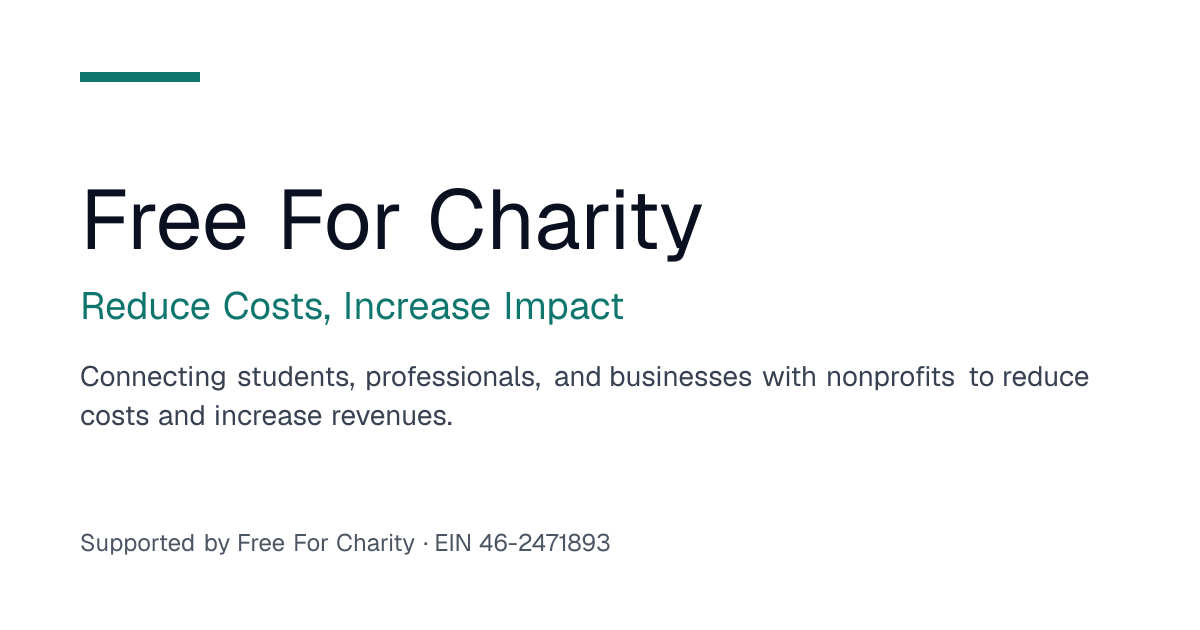
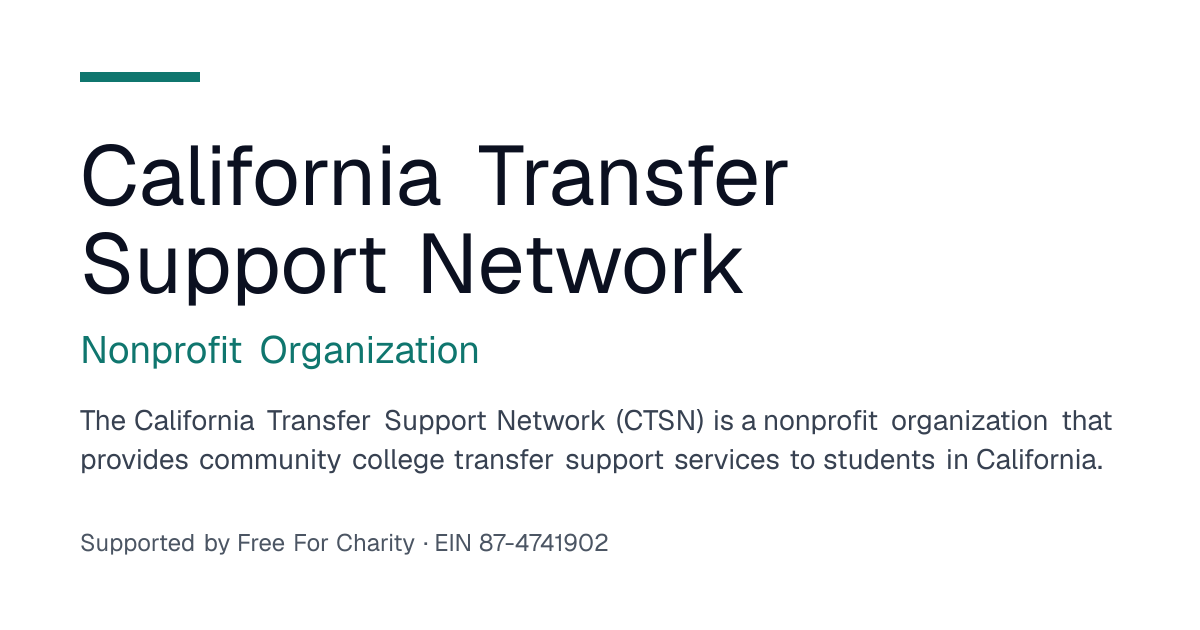
fix: drop FFC's GTM container and regenerate the social card
- analytics.config.ts: GTM_ID was Free For Charity's own container, so
  the charity's visitor analytics would flow to FFC. Empty until the
  charity's container is provisioned (check:rebrand now passes).
- public/og-card.png still showed FFC's name, tagline and EIN; it is
  regenerated from siteConfig. The footnote now leaves out an empty EIN.
- Link check: skip instagram.com like the other social hosts.

Changed region(s): [[0.0617, 0.2111, 0.925, 0.754], [0.4008, 0.8444, 0.5242, 0.8746]]

diff --git a/__tests__/scripts/generate-og-card.test.ts b/__tests__/scripts/generate-og-card.test.ts
@@ -60,6 +60,17 @@ describe('social card palette', () => {
     expect(evaluate("m.relativeLuminance('ffffff')")).toBeCloseTo(1, 5)
   })
 
+  // A pending EIN is empty: the footnote drops the EIN rather than baking a
+  // dangling "EIN " into the committed PNG.
+  it('leaves an empty EIN out of the footnote', () => {
+    const config = (ein: string) =>
+      JSON.stringify({ ein, supportedBy: { name: 'Free For Charity' } })
+    expect(evaluate(`m.cardFootnote(${config('')})`)).toBe('Supported by Free For Charity')
+    expect(evaluate(`m.cardFootnote(${config('12-3456789')})`)).toBe(
+      'Supported by Free For Charity · EIN 12-3456789'
+    )
+  })
+
   // Importing the module must not render or write anything: the test above
   // would otherwise overwrite public/og-card.png on every run.
   it('does not render when imported', () => {

diff --git a/src/lib/analytics.config.ts b/src/lib/analytics.config.ts
@@ -23,4 +23,6 @@
  * The explicit `: string` matters: without it TypeScript narrows the constant
  * to its literal value and rejects the empty-string comparisons the guards use.
  */
-export const GTM_ID: string = 'GTM-TQ5H8HPR'
+// Empty until this charity's own container is provisioned (workflows 505/503):
+// the template ships the supporting organization's own container id.
+export const GTM_ID: string = ''
